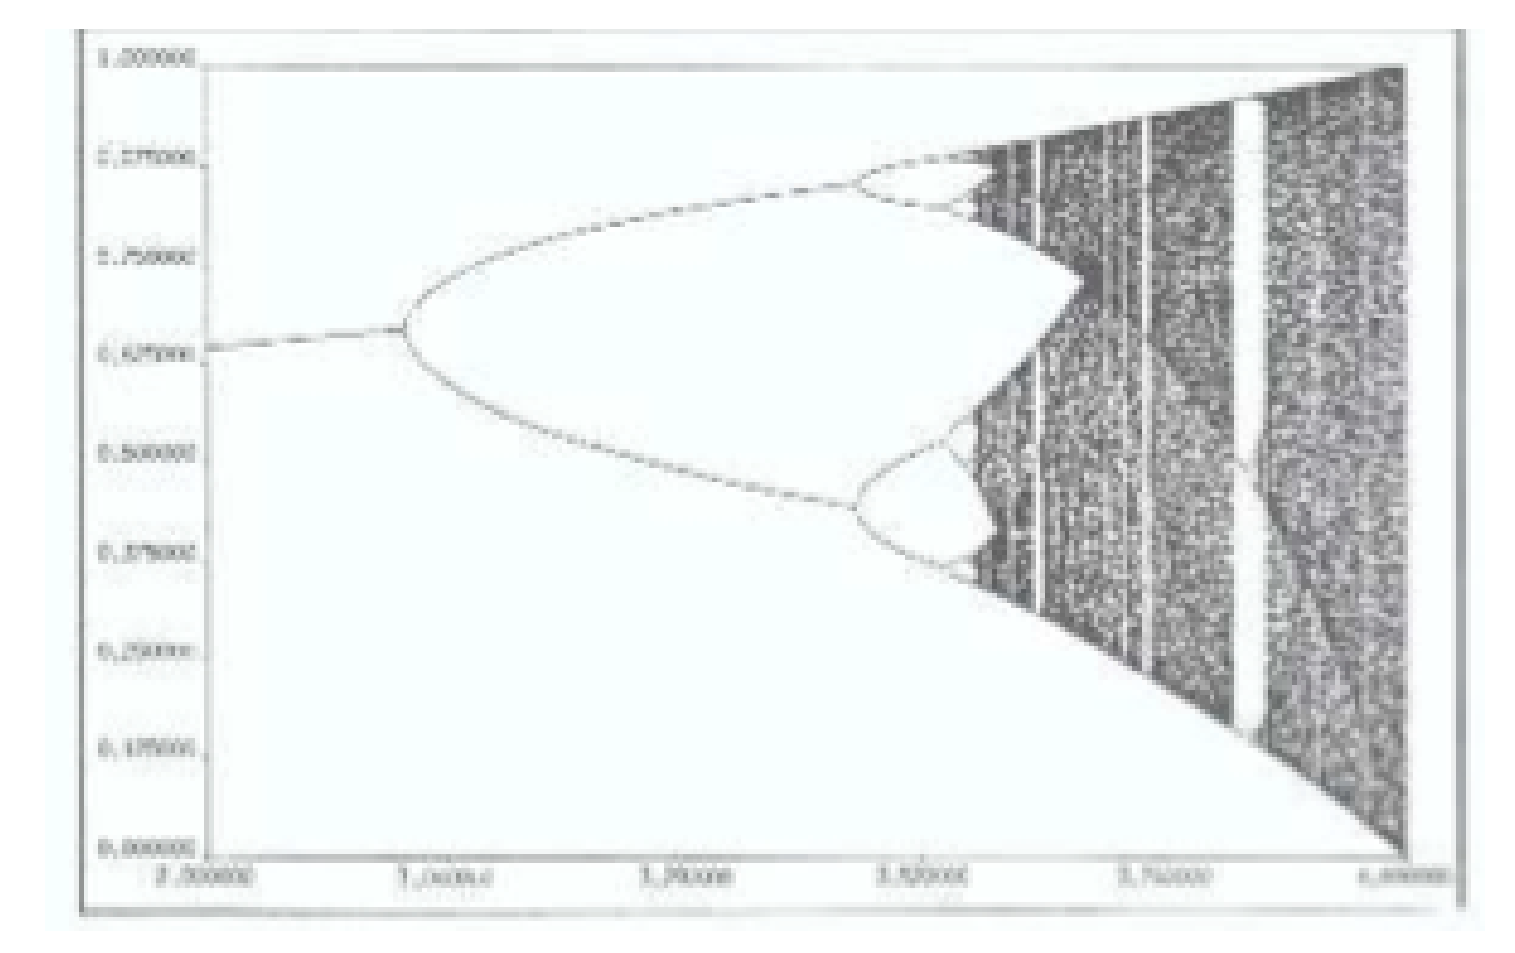
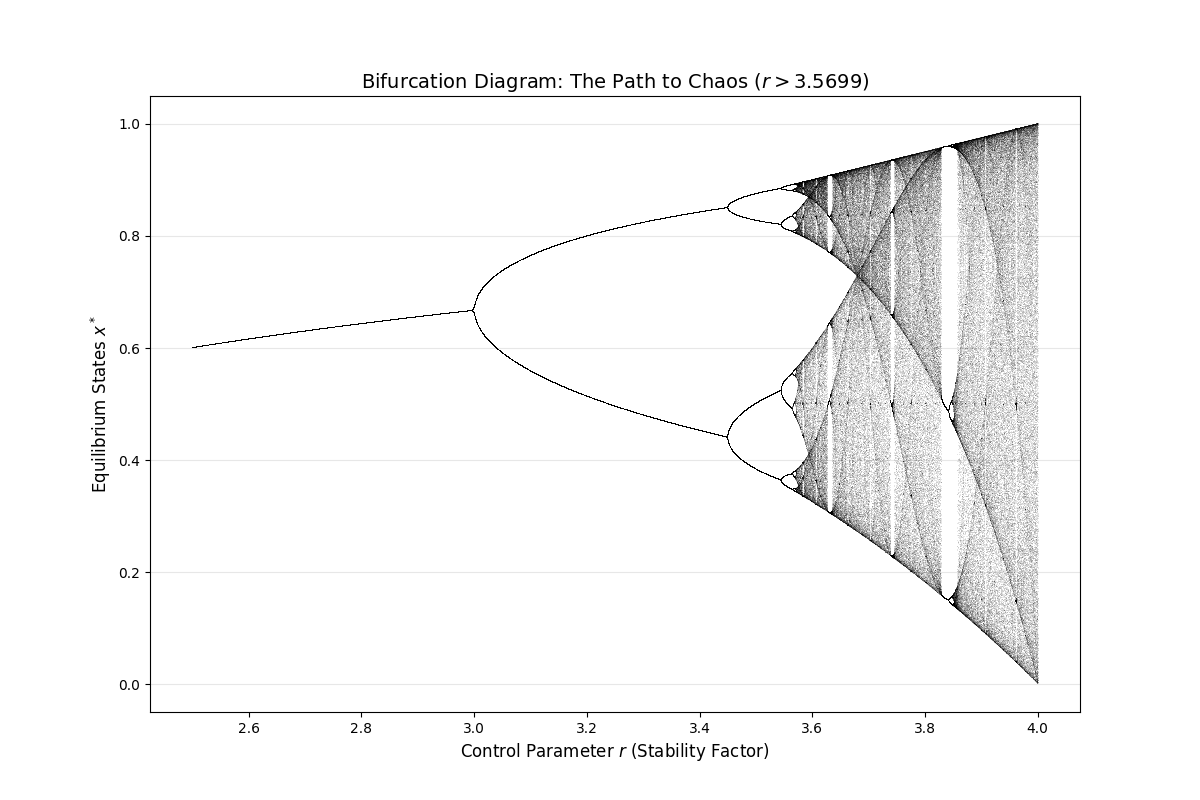
add def.

diff --git a/src/pages/ChaosLog_1.jsx b/src/pages/ChaosLog_1.jsx
@@ -9,79 +9,59 @@ import figure1 from '../assets/Figure_1.png';
 import figure2 from '../assets/Figure_2.png';
 
 // =========================================================
-// 🛡 静态资源隔离区
+// 🛡 静态资源隔离区 (完全防爆机制)
 // =========================================================
 const FORMULAS = {
-  stability: "|x_{n+1} - x^*| \\approx |f'(x^*)| \\cdot |x_n - x^*|",
+  linearization: "f(x) \\approx f(x^*) + f'(x^*)(x - x^*) \\implies x_{n+1} - x^* \\approx f'(x^*)(x_n - x^*)",
+  logistic: "x_{n+1} = rx_n(1 - x_n), \\quad x \\in [0, 1]",
+  chainRule: "(f^{(2^n)})'(x) = f'(x_1) \\cdot f'(x_2) \\cdots f'(x_{2^n})",
   feigenbaum: "\\delta = \\lim_{n \\to \\infty} \\frac{r_n - r_{n-1}}{r_{n+1} - r_n} \\approx 4.6692016...",
-  schwarzian: "Sf(x) = \\frac{f'''(x)}{f'(x)} - \\frac{3}{2} \\left( \\frac{f''(x)}{f'(x)} \\right)^2 < 0"
+  schwarzian: "D_{sch} f(x) = \\left( \\frac{f''(x)}{f'(x)} \\right)' - \\frac{1}{2} \\left( \\frac{f''(x)}{f'(x)} \\right)^2 < 0"
 };
 
 const PYTHON_CODE = [
   "import numpy as np",
   "import matplotlib.pyplot as plt",
   "",
-  "# 1. Define Logistic Map Function",
-  "def f(x, r):",
+  "def logistic(r, x):",
   "    return r * x * (1 - x)",
   "",
-  "# 2. Cobweb Plot Generator",
-  "def plot_cobweb(ax, r, x0, iterations=100):",
-  "    x_range = np.linspace(0, 1, 500)",
-  "    ax.plot(x_range, x_range, 'k--', alpha=0.5, label='y=x')",
-  "    ax.plot(x_range, f(x_range, r), 'r', lw=2, label=f'f(x), r={r}')",
+  "# 1. Bifurcation Diagram",
+  "def plot_bifurcation():",
+  "    n = 10000",
+  "    r = np.linspace(2.5, 4.0, n)",
+  "    iterations = 1000",
+  "    last = 100",
+  "    x = 1e-5 * np.ones(n)",
   "    ",
-  "    x = x0",
-  "    trajectory = [x]",
-  "    for _ in range(iterations):",
-  "        y = f(x, r)",
-  "        ax.plot([x, x], [x, y], 'b', lw=1, alpha=0.3)",
-  "        ax.plot([x, y], [y, y], 'b', lw=1, alpha=0.3)",
-  "        x = y",
-  "        trajectory.append(x)",
-  "        ",
-  "    ax.set_title(f'Cobweb Plot: r={r}, x0={x0}')",
-  "    ax.set_xlabel('$x_n$')",
-  "    ax.set_ylabel('$x_{n+1}$') ",
-  "    ax.set_xlim(0, 1)",
-  "    ax.set_ylim(0, 1)",
-  "    ax.grid(True, linestyle='--', alpha=0.5)",
-  "    return trajectory",
+  "    plt.figure(figsize=(10, 6))",
+  "    for i in range(iterations):",
+  "        x = logistic(r, x)",
+  "        if i >= (iterations - last):",
+  "            plt.plot(r, x, ',k', alpha=0.25)",
+  "    plt.title('Bifurcation Diagram of Logistic Map')",
+  "    plt.xlabel('r')",
+  "    plt.ylabel('x')",
+  "    plt.show()",
   "",
-  "# 3. Setup Subplots",
-  "fig, axes = plt.subplots(3, 2, figsize=(12, 14), gridspec_kw={'width_ratios': [2, 1]})",
-  "plt.subplots_adjust(hspace=0.4)",
-  "",
-  "r_values = [2.8, 3.2, 3.9]",
-  "x0 = 0.1",
-  "iters = 80",
-  "",
-  "for i, r in enumerate(r_values):",
-  "    ax_cobweb = axes[i, 0]",
-  "    traj = plot_cobweb(ax_cobweb, r, x0, iters)",
-  "    if i == 0:",
-  "        ax_cobweb.legend(loc='upper left')",
-  "        ",
-  "    ax_time = axes[i, 1]",
-  "    ax_time.plot(traj, 'g.-', lw=1, alpha=0.6)",
-  "    ax_time.set_title(f'Time Series: r={r}')",
-  "    ax_time.set_xlabel('Iteration (n)')",
-  "    ax_time.set_ylabel('$x_n$')",
-  "    ax_time.set_xlim(0, iters)",
-  "    ax_time.set_ylim(0, 1)",
-  "    ax_time.grid(True, linestyle='--', alpha=0.5)",
+  "# 2. Cobweb Plot",
+  "def plot_cobweb(r, x0=0.1, iters=50):",
+  "    x = np.linspace(0, 1, 100)",
+  "    plt.figure(figsize=(6, 6))",
+  "    plt.plot(x, logistic(r, x), 'r', label='f(x)')",
+  "    plt.plot(x, x, 'k--', label='y=x')",
   "    ",
-  "    if r == 2.8:",
-  "        meanings = 'Fixed Point (Stable)'",
-  "    elif r == 3.2:",
-  "        meanings = '2-Cycle (Stable)'",
-  "    else:",
-  "        meanings = 'Chaos (Aperiodic)'",
-  "        ",
-  "    ax_time.text(0.5, 0.05, meanings, color='maroon', fontweight='bold', transform=ax_time.transAxes, ha='center')",
+  "    cur_x = x0",
+  "    for _ in range(iters):",
+  "        y = logistic(r, cur_x)",
+  "        plt.plot([cur_x, cur_x], [cur_x, y], 'b', alpha=0.3)",
+  "        plt.plot([cur_x, y], [y, y], 'b', alpha=0.3)",
+  "        cur_x = y",
+  "    plt.title(f'Cobweb Plot (r={r})')",
+  "    plt.show()",
   "",
-  "plt.tight_layout()",
-  "plt.show()"
+  "plot_bifurcation()",
+  "plot_cobweb(r=3.9)"
 ].join('\n');
 
 // =========================================================
@@ -232,7 +212,7 @@ const ChaosLab = () => {
 };
 
 // =========================================================
-// 组件: 最安全的无状态数学渲染器 (用于独立段落块)
+// 组件: 最安全的无状态数学渲染器
 // =========================================================
 const MathDisplay = ({ tex, katexReady }) => {
   const container = useRef(null);
@@ -249,7 +229,7 @@ const MathDisplay = ({ tex, katexReady }) => {
 };
 
 // =========================================================
-// 组件: 行内公式渲染器 (精美渲染 $r_n$, $f$ 等数学符号)
+// 组件: 行内公式渲染器
 // =========================================================
 const InlineMath = ({ tex, katexReady }) => {
   const container = useRef(null);
@@ -304,85 +284,112 @@ const ChaosLogContent = () => {
   }, []);
 
   return (
-    <LogLayout title="DYNAMICAL_SYSTEMS: THE_TOPOLOGY_OF_CHAOS" category="RESEARCH" date="2026-03-26">
+    <LogLayout title="FROM_FIXED_POINTS_TO_CHAOS: THE_AESTHETICS_AND_SCIENCE_OF_DYNAMICAL_SYSTEMS" category="RESEARCH" date="2026-03-26">
       <div className="space-y-12 font-mono text-white/80 text-sm md:text-base leading-relaxed max-w-5xl mx-auto pb-20">
         
         <section className="space-y-4">
           <p>
-            The emergence of complexity from deceptively simple recursive rules represents a fundamental shift in mathematical physics. 
-            By analyzing discrete maps, we observe how deterministic systems transition from stable equilibria into bounded chaos.
+            In non-linear dynamics, a deceptively simple rule can often breed immensely complex behavior. 
+            This log explores the core theories of dynamical systems, starting from fundamental fixed points 
+            and journeying step-by-step into the profound mysteries of Chaos.
           </p>
         </section>
 
         <section className="space-y-4">
-          <h3 className="text-xl font-bold text-white tracking-widest uppercase border-b border-white/10 pb-2">1. Local Stability & Fixed Points</h3>
+          <h3 className="text-xl font-bold text-white tracking-widest uppercase border-b border-white/10 pb-2">1. Dynamical Systems Classification: Discrete vs. Continuous</h3>
+          <p>Dynamical systems are primarily categorized into two major classes:</p>
+          <ul className="list-disc list-inside space-y-2 text-white/70 ml-4">
+            <li><strong>Discrete Systems (Iterative Maps):</strong> Described by iterative mappings <InlineMath tex="x_{n+1} = f(x_n)" katexReady={katexReady} />.</li>
+            <li><strong>Continuous Systems:</strong> Described by Differential Equations.</li>
+          </ul>
+          <p className="mt-4">The core focus of this log will be exclusively on discrete iterative maps.</p>
+        </section>
+
+        <section className="space-y-4">
+          <h3 className="text-xl font-bold text-white tracking-widest uppercase border-b border-white/10 pb-2">2. Fixed Points and Stability: Linearization Analysis</h3>
           <p>
-            Consider the iterative map <InlineMath tex="x_{n+1} = f(x_n)" katexReady={katexReady} />. A state <InlineMath tex="x^*" katexReady={katexReady} /> is defined as a fixed point if <InlineMath tex="f(x^*) = x^*" katexReady={katexReady} />. 
-            The behavior of trajectories in its infinitesimal neighborhood is governed by the linearized derivative:
+            <strong>Definition:</strong> If a point satisfies <InlineMath tex="f(x^*) = x^*" katexReady={katexReady} />, then <InlineMath tex="x^*" katexReady={katexReady} /> is called a <em>Fixed Point</em>.
+          </p>
+          <p>
+            <strong>Stability Criterion:</strong> We want to investigate: if the initial value slightly deviates from <InlineMath tex="x^*" katexReady={katexReady} />, will the system return to it or escape? By applying linearization approximation:
           </p>
           
-          <MathDisplay tex={FORMULAS.stability} katexReady={katexReady} />
+          <MathDisplay tex={FORMULAS.linearization} katexReady={katexReady} />
           
+          <p className="font-bold text-white mt-4">Conclusion:</p>
           <div className="grid grid-cols-1 md:grid-cols-2 gap-4 text-xs tracking-widest">
             <div className="p-4 bg-cyan-500/5 border border-cyan-500/20 rounded">
-              <span className="text-cyan-400 font-black block mb-1">STABLE ATTRACTOR</span>
-              If <InlineMath tex="|f'(x^*)| < 1" katexReady={katexReady} />, initial perturbations decay geometrically.
+              <span className="text-cyan-400 font-black block mb-1">STABLE (ATTRACTOR)</span>
+              If <InlineMath tex="|f'(x^*)| < 1" katexReady={katexReady} />, the fixed point is stable.
             </div>
             <div className="p-4 bg-pink-500/5 border border-pink-500/20 rounded">
-              <span className="text-pink-400 font-black block mb-1">UNSTABLE REPELLOR</span>
-              If <InlineMath tex="|f'(x^*)| > 1" katexReady={katexReady} />, local fluctuations amplify exponentially.
+              <span className="text-pink-400 font-black block mb-1">UNSTABLE (REPELLOR)</span>
+              If <InlineMath tex="|f'(x^*)| > 1" katexReady={katexReady} />, the fixed point is unstable.
             </div>
           </div>
         </section>
 
         <section className="space-y-4">
-          <h3 className="text-xl font-bold text-white tracking-widest uppercase border-b border-white/10 pb-2">2. Iterative Lab: The Logistic Cascade</h3>
+          <h3 className="text-xl font-bold text-white tracking-widest uppercase border-b border-white/10 pb-2">3. Classic Case: The Evolution of the Logistic Map</h3>
           <p>
-            The Logistic Map <InlineMath tex="x_{n+1} = r x_n (1 - x_n)" katexReady={katexReady} /> exemplifies the bifurcation route to chaos. Interact with 
-            the parameter <InlineMath tex="r" katexReady={katexReady} /> to witness the "Cobweb" spiral transition from stability to periodic orbits:
+            The equation for the Logistic Map is given by:
           </p>
+          
+          <MathDisplay tex={FORMULAS.logistic} katexReady={katexReady} />
+          
+          <p>
+            Its derivative is <InlineMath tex="f'(x) = r - 2rx" katexReady={katexReady} />. As the parameter <InlineMath tex="r" katexReady={katexReady} /> increases, the system exhibits distinctly different dynamical characteristics:
+          </p>
+          
+          <ul className="space-y-4 text-white/70 ml-4">
+            <li>
+              <strong className="text-white">Stage 1: Convergence to Zero (<InlineMath tex="r \in [0, 1]" katexReady={katexReady} />)</strong><br/>
+              The only fixed point <InlineMath tex="x^* = 0" katexReady={katexReady} /> is stable. The system will eventually face "extinction".
+            </li>
+            <li>
+              <strong className="text-white">Stage 2: Convergence to Equilibrium (<InlineMath tex="r \in (1, 3]" katexReady={katexReady} />)</strong><br/>
+              <InlineMath tex="x^* = 0" katexReady={katexReady} /> becomes unstable, while a new fixed point <InlineMath tex="x^* = 1 - 1/r" katexReady={katexReady} /> is born and remains stable.
+            </li>
+            <li>
+              <strong className="text-white">Stage 3: Period-Doubling Bifurcation (<InlineMath tex="r > 3" katexReady={katexReady} />)</strong><br/>
+              When <InlineMath tex="r = 3" katexReady={katexReady} />, <InlineMath tex="f'(x^*)" katexReady={katexReady} /> reaches <InlineMath tex="-1" katexReady={katexReady} />, and the fixed point loses stability. The system no longer settles at a single point, but begins to oscillate between two values, forming a 2-cycle. At this point, it satisfies <InlineMath tex="f(f(x)) = x" katexReady={katexReady} />.
+            </li>
+          </ul>
+
           <ChaosLab />
         </section>
 
         <section className="space-y-6">
-          <h3 className="text-xl font-bold text-white tracking-widest uppercase border-b border-white/10 pb-2">3. Python Simulation & Visualization</h3>
+          <h3 className="text-xl font-bold text-white tracking-widest uppercase border-b border-white/10 pb-2">4. Periodic Orbits and the Feigenbaum Constant</h3>
           <p>
-            To rigorously analyze the transition mappings, we can utilize `numpy` and `matplotlib` to render both 
-            the cobweb iterations and their corresponding time-series behavior across different parameters <InlineMath tex="r" katexReady={katexReady} />.
+            For a <InlineMath tex="2^n" katexReady={katexReady} />-cycle, its stability is determined by the chain rule of the composite function:
+          </p>
+          
+          <MathDisplay tex={FORMULAS.chainRule} katexReady={katexReady} />
+          
+          <p>As long as the absolute value of this product is less than 1, the periodic orbit is stable.</p>
+
+          <h4 className="font-bold text-cyan-400 mt-6">The First Feigenbaum Constant</h4>
+          <p>
+            As <InlineMath tex="r" katexReady={katexReady} /> increases, bifurcations occur at an accelerating rate. Let <InlineMath tex="r_n" katexReady={katexReady} /> be the parameter value where the <InlineMath tex="2^n" katexReady={katexReady} />-cycle begins; the convergence ratio approaches a universal constant:
+          </p>
+
+          <MathDisplay tex={FORMULAS.feigenbaum} katexReady={katexReady} />
+
+          <p>
+            <strong>Why is <InlineMath tex="\delta" katexReady={katexReady} /> so profoundly important? (Universality)</strong><br/>
+            Universality is one of the most mesmerizing discoveries in non-linear science. Whether it is the Logistic Map or the Sine Map <InlineMath tex="x_{n+1} = r \sin(\pi x_n)" katexReady={katexReady} />, as long as the function is quadratically continuous at its maximum point, their rhythm of approaching chaos (<InlineMath tex="\delta" katexReady={katexReady} />) is exactly identical!
+          </p>
+        </section>
+
+        <section className="space-y-6">
+          <h3 className="text-xl font-bold text-white tracking-widest uppercase border-b border-white/10 pb-2">5. Visualization: Cobweb Plots and Bifurcation Diagrams</h3>
+          <p>
+            We can intuitively observe this mathematical transition using Python code.
           </p>
           
           <CodeBlock code={PYTHON_CODE} />
           
-          <p>
-            The execution of this simulation yields the following visualizations, clearly demonstrating the phase 
-            shifts from stable fixed points (<InlineMath tex="r=2.8" katexReady={katexReady} />) to 2-cycles (<InlineMath tex="r=3.2" katexReady={katexReady} />), and ultimately to aperiodic chaos (<InlineMath tex="r=3.9" katexReady={katexReady} />).
-          </p>
-          <figure className="my-8 overflow-hidden rounded-xl border border-white/10 shadow-2xl bg-white/5">
-            <img 
-              src={figure1} 
-              alt="Cobweb and Time Series Plot" 
-              className="w-full object-cover opacity-90 hover:opacity-100 transition-opacity"
-            />
-            <figcaption className="p-4 text-center text-[10px] text-white/40 uppercase tracking-widest font-bold border-t border-white/5">
-              Fig 1. Cobweb Maps and Time Series evolution generated via Python.
-            </figcaption>
-          </figure>
-        </section>
-
-        <section className="space-y-6">
-          <h3 className="text-xl font-bold text-white tracking-widest uppercase border-b border-white/10 pb-2">4. Universal Scaling (Feigenbaum Constant)</h3>
-          <p>
-            In the period-doubling regime, the intervals between successive bifurcations <InlineMath tex="r_n" katexReady={katexReady} /> converge following a specific, 
-            universal ratio. This is the **Feigenbaum Constant** <InlineMath tex="\delta" katexReady={katexReady} />:
-          </p>
-          
-          <MathDisplay tex={FORMULAS.feigenbaum} katexReady={katexReady} />
-          
-          <p>
-            This universality is a profound <strong>Serendipity</strong>: any unimodal map with a quadratic maximum 
-            will reach chaos through the exact same geometric progression. This entire cascade is best visualized 
-            through the Bifurcation Diagram:
-          </p>
           <figure className="my-8 overflow-hidden rounded-xl border border-white/10 shadow-2xl bg-white/5">
             <img 
               src={figure2} 
@@ -391,23 +398,42 @@ const ChaosLogContent = () => {
               style={{ filter: "invert(1) hue-rotate(180deg) contrast(1.2)" }} 
             />
             <figcaption className="p-4 text-center text-[10px] text-white/40 uppercase tracking-widest font-bold border-t border-white/5">
-              Fig 2. Phase Space Map: The Bifurcation Diagram outlining the route to chaos.
+              Fig 1. Bifurcation Diagram outlining the route to chaos.
+            </figcaption>
+          </figure>
+
+          <figure className="my-8 overflow-hidden rounded-xl border border-white/10 shadow-2xl bg-white/5">
+            <img 
+              src={figure1} 
+              alt="Cobweb Plot" 
+              className="w-full object-cover opacity-90 hover:opacity-100 transition-opacity"
+            />
+            <figcaption className="p-4 text-center text-[10px] text-white/40 uppercase tracking-widest font-bold border-t border-white/5">
+              Fig 2. Cobweb Plot mapping dynamic trajectories.
             </figcaption>
           </figure>
         </section>
 
         <section className="space-y-4">
-          <h3 className="text-xl font-bold text-white tracking-widest uppercase border-b border-white/10 pb-2">5. The Schwarzian Derivative Criterion</h3>
+          <h3 className="text-xl font-bold text-white tracking-widest uppercase border-b border-white/10 pb-2">6. Mathematical Advanced: Schwarzian Derivative & Constant Verification</h3>
           <p>
-            A map <InlineMath tex="f" katexReady={katexReady} /> must satisfy a global curvature constraint to exhibit a stable period-doubling cascade, 
-            known as the <strong>Schwarzian Derivative</strong>:
+            Why are certain functions guaranteed to undergo a period-doubling cascade and ultimately yield the universal constant <InlineMath tex="\delta" katexReady={katexReady} />? The critical condition for this mathematical guarantee lies within the <strong>Schwarzian Derivative</strong>:
           </p>
           
           <MathDisplay tex={FORMULAS.schwarzian} katexReady={katexReady} />
           
-          <p className="opacity-50 text-xs italic bg-white/5 p-4 border-l-2 border-white/20">
-            // This negative Schwarzian derivative ensures that the map has at most one stable periodic orbit, 
-            preventing the coexistence of competing attractors in the cascade.
+          <p className="opacity-70">
+            If a unimodal map maintains a negative Schwarzian derivative across its entire interval, it mathematically ensures that the map possesses <em>at most one</em> stable periodic orbit at any given parameter value. 
+          </p>
+          <p className="bg-white/5 p-4 border-l-2 border-cyan-500/50 text-xs italic">
+            // This is the fundamental verification criterion: A negative Schwarzian derivative prevents the coexistence of competing attractors. When a fixed point loses stability, this condition forces the system to birth a clean, non-competing period-doubled orbit, thereby ensuring the infinite cascade structure necessary to derive the universal Feigenbaum constant <InlineMath tex="\delta \approx 4.669" katexReady={katexReady} />.
+          </p>
+        </section>
+
+        <section className="space-y-4 pt-8">
+          <h3 className="text-xl font-bold text-white tracking-widest uppercase border-b border-white/10 pb-2">Conclusion</h3>
+          <p className="opacity-80 leading-relaxed">
+            From a simple inequality <InlineMath tex="|f'| < 1" katexReady={katexReady} /> to the universal constant <InlineMath tex="4.669" katexReady={katexReady} />, we witness the hidden order embedded within the chaos of nature. This continuous transition from steady-state to oscillation, and ultimately to chaos, forms the fundamental mathematical cornerstone for understanding real-world complexities such as fluid turbulence, financial market volatility, and biological population evolution.
           </p>
         </section>
 
